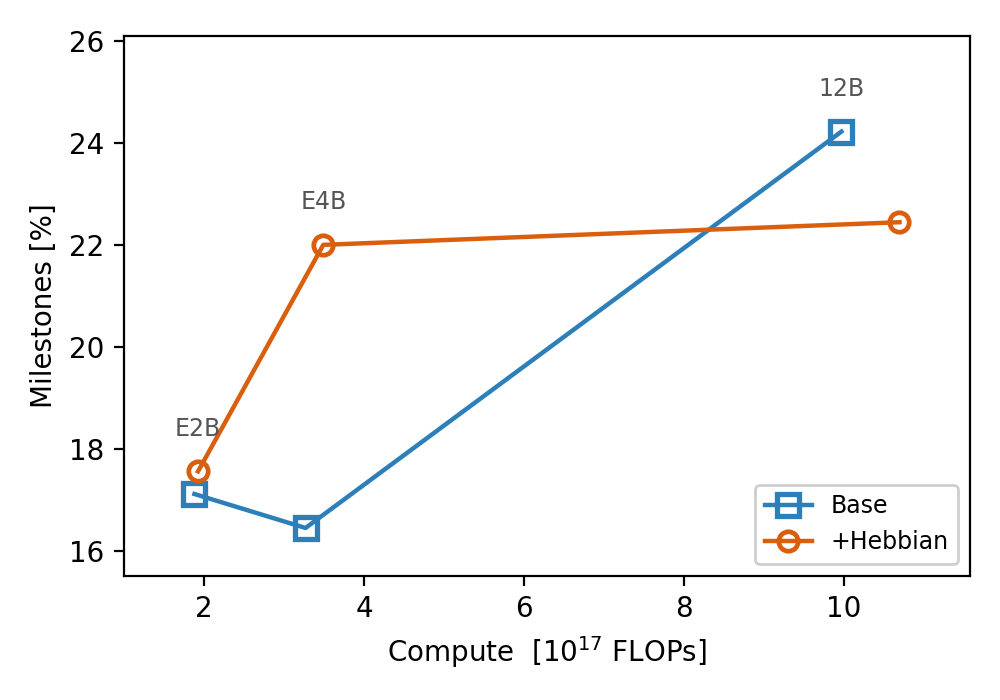
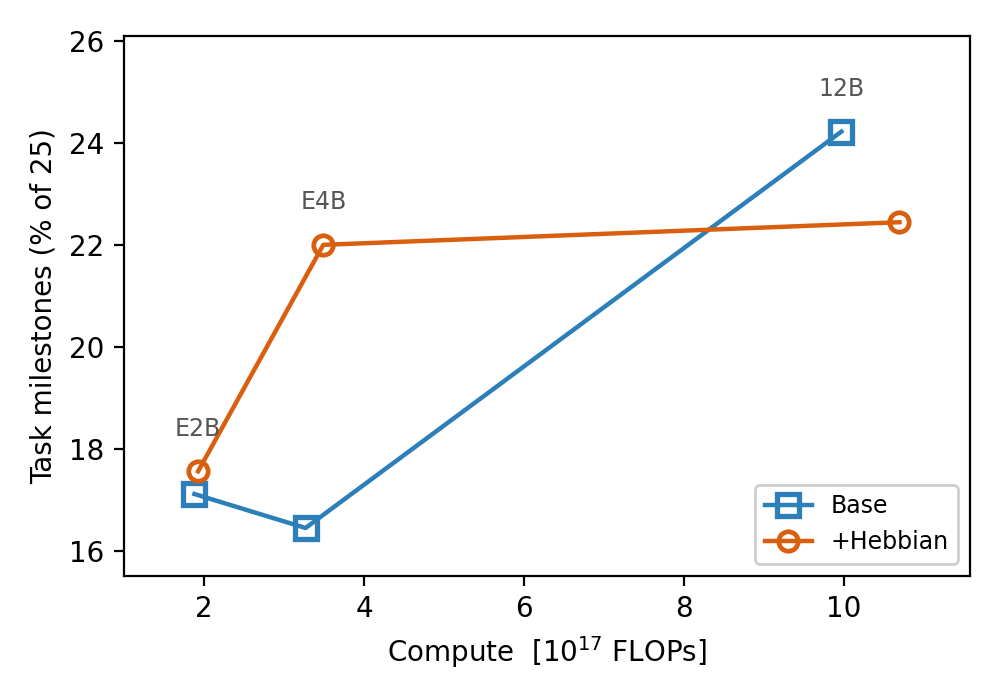
Pareto: headline metric = task milestones (% of 25), matching the social frontier
make_pareto_social_fig's total_pct and this script's milestone_pct are the
same computation (100 * distinct team task milestones / 25, per episode), so
the two Pareto figures in the paper now carry the same y-axis and the same
label. --paper is task milestones + task return side by side; coop stays
available as a third figure.

Changed region(s): [[0.031, 0.18, 0.062, 0.69]]

diff --git a/scripts/make_pareto_grid.py b/scripts/make_pareto_grid.py
@@ -87,8 +87,11 @@ FAMILIES = {
 # the full definitions live in the caption / tab:final_comparison.
 Y_METRICS = {
     "reward":           "Task return",
-    "milestone_pct":    "Milestones [%]",
-    "coop_pct":         "Coop. milestones [%]",
+    # Same quantity AND same label as make_pareto_social_fig's frontier
+    # (its total_pct = 100 * task_milestone_count / (n_eps * TASK_MAX=25)),
+    # so the two Pareto figures in the paper are directly comparable.
+    "milestone_pct":    "Task milestones (% of 25)",
+    "coop_pct":         "Coop. milestone completion [%]",
     "completions":      "Milestone completions",
     "coop_completions": "Coop. milestone completions",
     # Per-agent framing. "Milestones per agent" is TASK milestones / N -- it is
@@ -343,7 +346,7 @@ def main():
                     help="comma-separated subset of gemma,qwen,both — Qwen is "
                          "excluded from the paper's plots by decision, so the "
                          "default is gemma only")
-    ap.add_argument("--ys", default="coop_pct,milestone_pct,reward",
+    ap.add_argument("--ys", default="milestone_pct,reward,coop_pct",
                     help="comma-separated subset of {}".format(",".join(Y_METRICS)))
     ap.add_argument("--xs", default="flops",
                     help="comma-separated subset of {}; the perception axes "
@@ -472,13 +475,13 @@ def main():
                 save(fig, args.out_dir / "pareto_{}_grid".format(fam))
                 n_written += 1
             plt.close(fig)
-        # The paper figure: the two columns of tab:final_comparison that carry
-        # RQ1 -- task return and cooperative coverage -- against compute, side
-        # by side, one legend (right panel).
+        # The paper figure: task milestones (the SAME metric and label as the
+        # social-interval frontier, so the two Pareto figures are directly
+        # comparable) beside task return, one legend on the right panel.
         if args.paper and "flops" in xs:
             fig, axes = plt.subplots(1, 2, figsize=(9.4, 3.5), dpi=200)
             drawn = 0
-            for ax, y in zip(axes, ("reward", "coop_pct")):
+            for ax, y in zip(axes, ("milestone_pct", "reward")):
                 drawn += draw_panel(ax, data, FAMILIES[fam], y, "flops",
                                     perception,
                                     label_points=not args.no_point_labels,

diff --git a/.claude/skills/pareto-plots/SKILL.md b/.claude/skills/pareto-plots/SKILL.md
@@ -103,27 +103,40 @@ frontier), so every compute figure in the paper reads as one family:
 
 ## The paper figures
 
-A bare run emits the three the paper uses, all vs compute:
+**Consistency rule:** the model-size Pareto and the social-interval Pareto
+(`make_pareto_social_fig.py`) plot the SAME headline metric with the SAME
+label — "Task milestones (% of 25)". Verified identical computations:
+its `total_pct` = `100 * task_milestone_count(ep) / (n_eps * TASK_MAX=25)`
+is exactly this script's `milestone_pct`. Do not diverge them.
+
+A bare run emits, all vs compute:
 
 | file | y-axis |
 |---|---|
-| `pareto_gemma_coop_pct_vs_flops.png` | Coop. milestones [%] — **the headline** |
-| `pareto_gemma_milestone_pct_vs_flops.png` | Milestones [%] |
+| `pareto_gemma_milestone_pct_vs_flops.png` | Task milestones (% of 25) — **headline, matches the social frontier** |
 | `pareto_gemma_reward_vs_flops.png` | Task return |
+| `pareto_gemma_coop_pct_vs_flops.png` | Coop. milestone completion [%] |
 
-plus `pareto_gemma_grid.png` (all three stacked) and, with `--paper`,
-`pareto_gemma_paper.png` (return + coop side by side, one legend).
-`grid/normalized/` holds the `--normalize` variants.
+plus `pareto_gemma_grid.png` (stacked) and, with `--paper`,
+`pareto_gemma_paper.png` = task milestones + task return side by side, one
+legend. `grid/normalized/` holds the `--normalize` variants.
 
-Use COVERAGE (`coop_pct`, `milestone_pct`), not the attainment metrics
-(`completions`, `coop_completions`) — coverage is the paper's own definition,
-so figure and table cross-check. Attainment earns its place only for the
-redundancy point: at 12B, Hebbian reaches fewer distinct milestones
-(5.61 vs 6.06) with more agents each (1.60 vs 1.49 per milestone), so
-completions tie 9.00 while coverage favours base.
+Use COVERAGE (`milestone_pct`, `coop_pct`), not attainment (`completions*`,
+`*_pa`) — coverage is the paper's own definition, so figure and table
+cross-check. Attainment earns its place only for the redundancy point: at
+12B, Hebbian reaches fewer distinct milestones (5.61 vs 6.06) with more
+agents each (1.60 vs 1.49), so completions tie 9.00 while coverage favours
+base. Per-agent axes exist (`completions_pa`) and are honest, but note 12B
+saturates at 3.00/3 agents in both arms.
 
-Perception axes (`--xs grounding,partner_loc`) still work but are DROPPED from
-the paper: grounding is a precision-style rate that rewards terseness
+NEVER label any per-agent axis "cooperative": true coop/agent is 0.31–1.06,
+whereas `final_metrics.mean_milestone_count_per_agent` is 6.4–7.2 because
+~2/3 of it is the communication track — that would contradict
+tab:final_comparison (1.44 distinct coop milestones for the whole team at
+E4B) on the same page.
+
+Perception axes (`--xs grounding,partner_loc`) still work but are DROPPED
+from the paper: grounding is a precision-style rate that rewards terseness
 (E2B 0.92 > 12B 0.87 > E4B 0.85) — a verbosity axis, not a capability one.
 
 ## Adding a size or family
